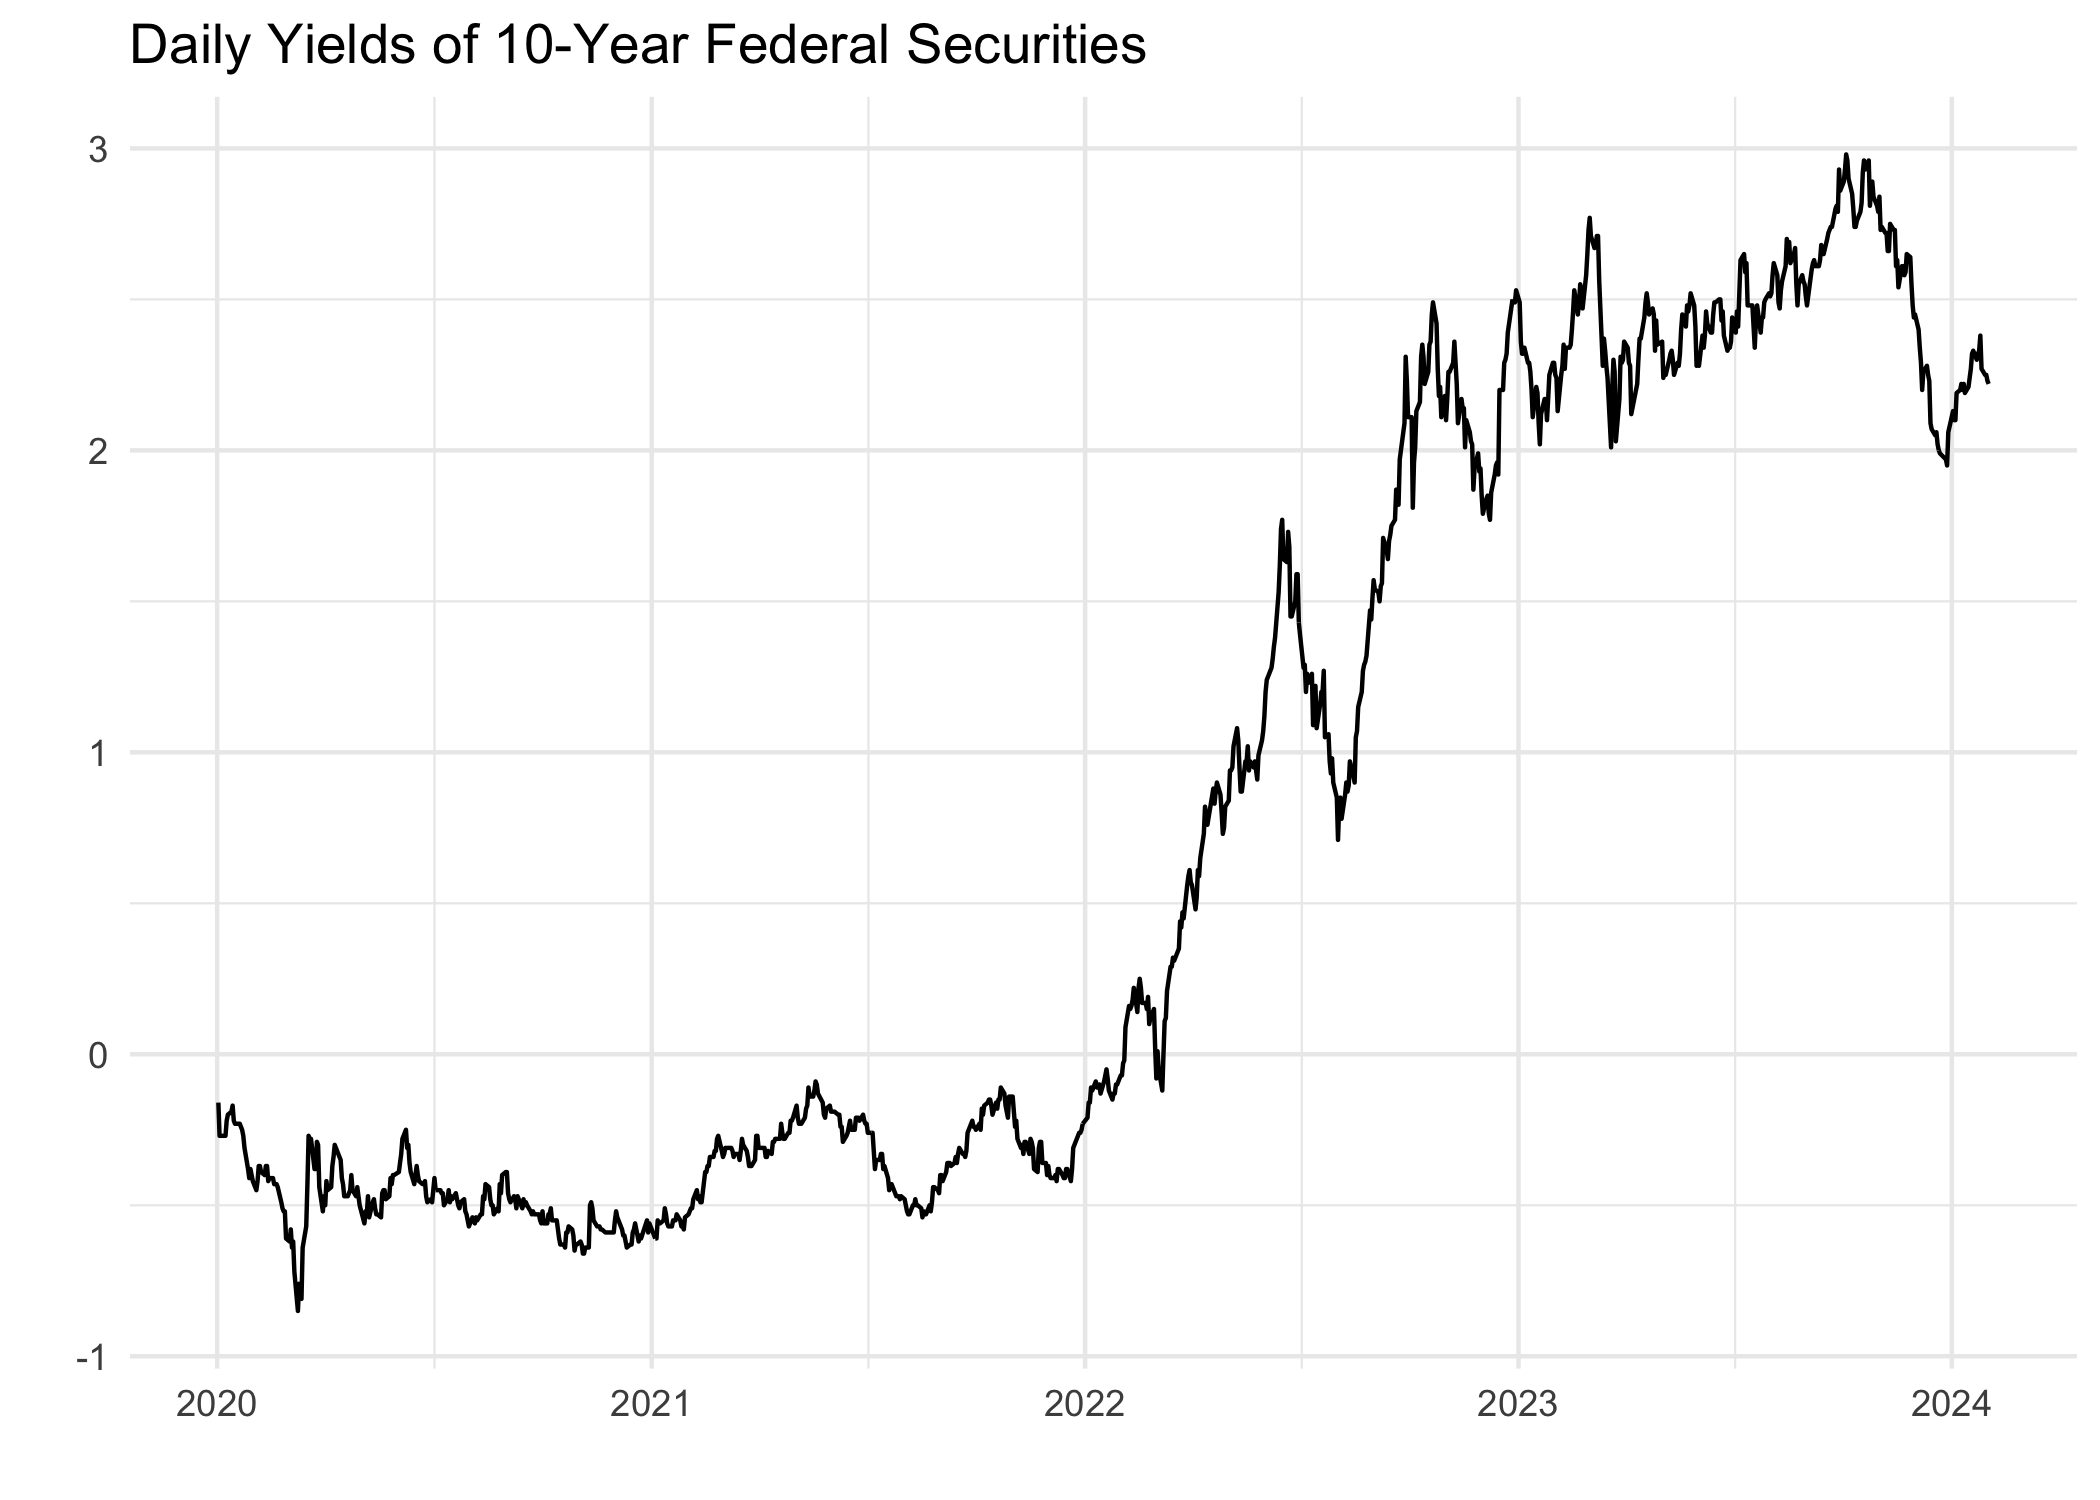
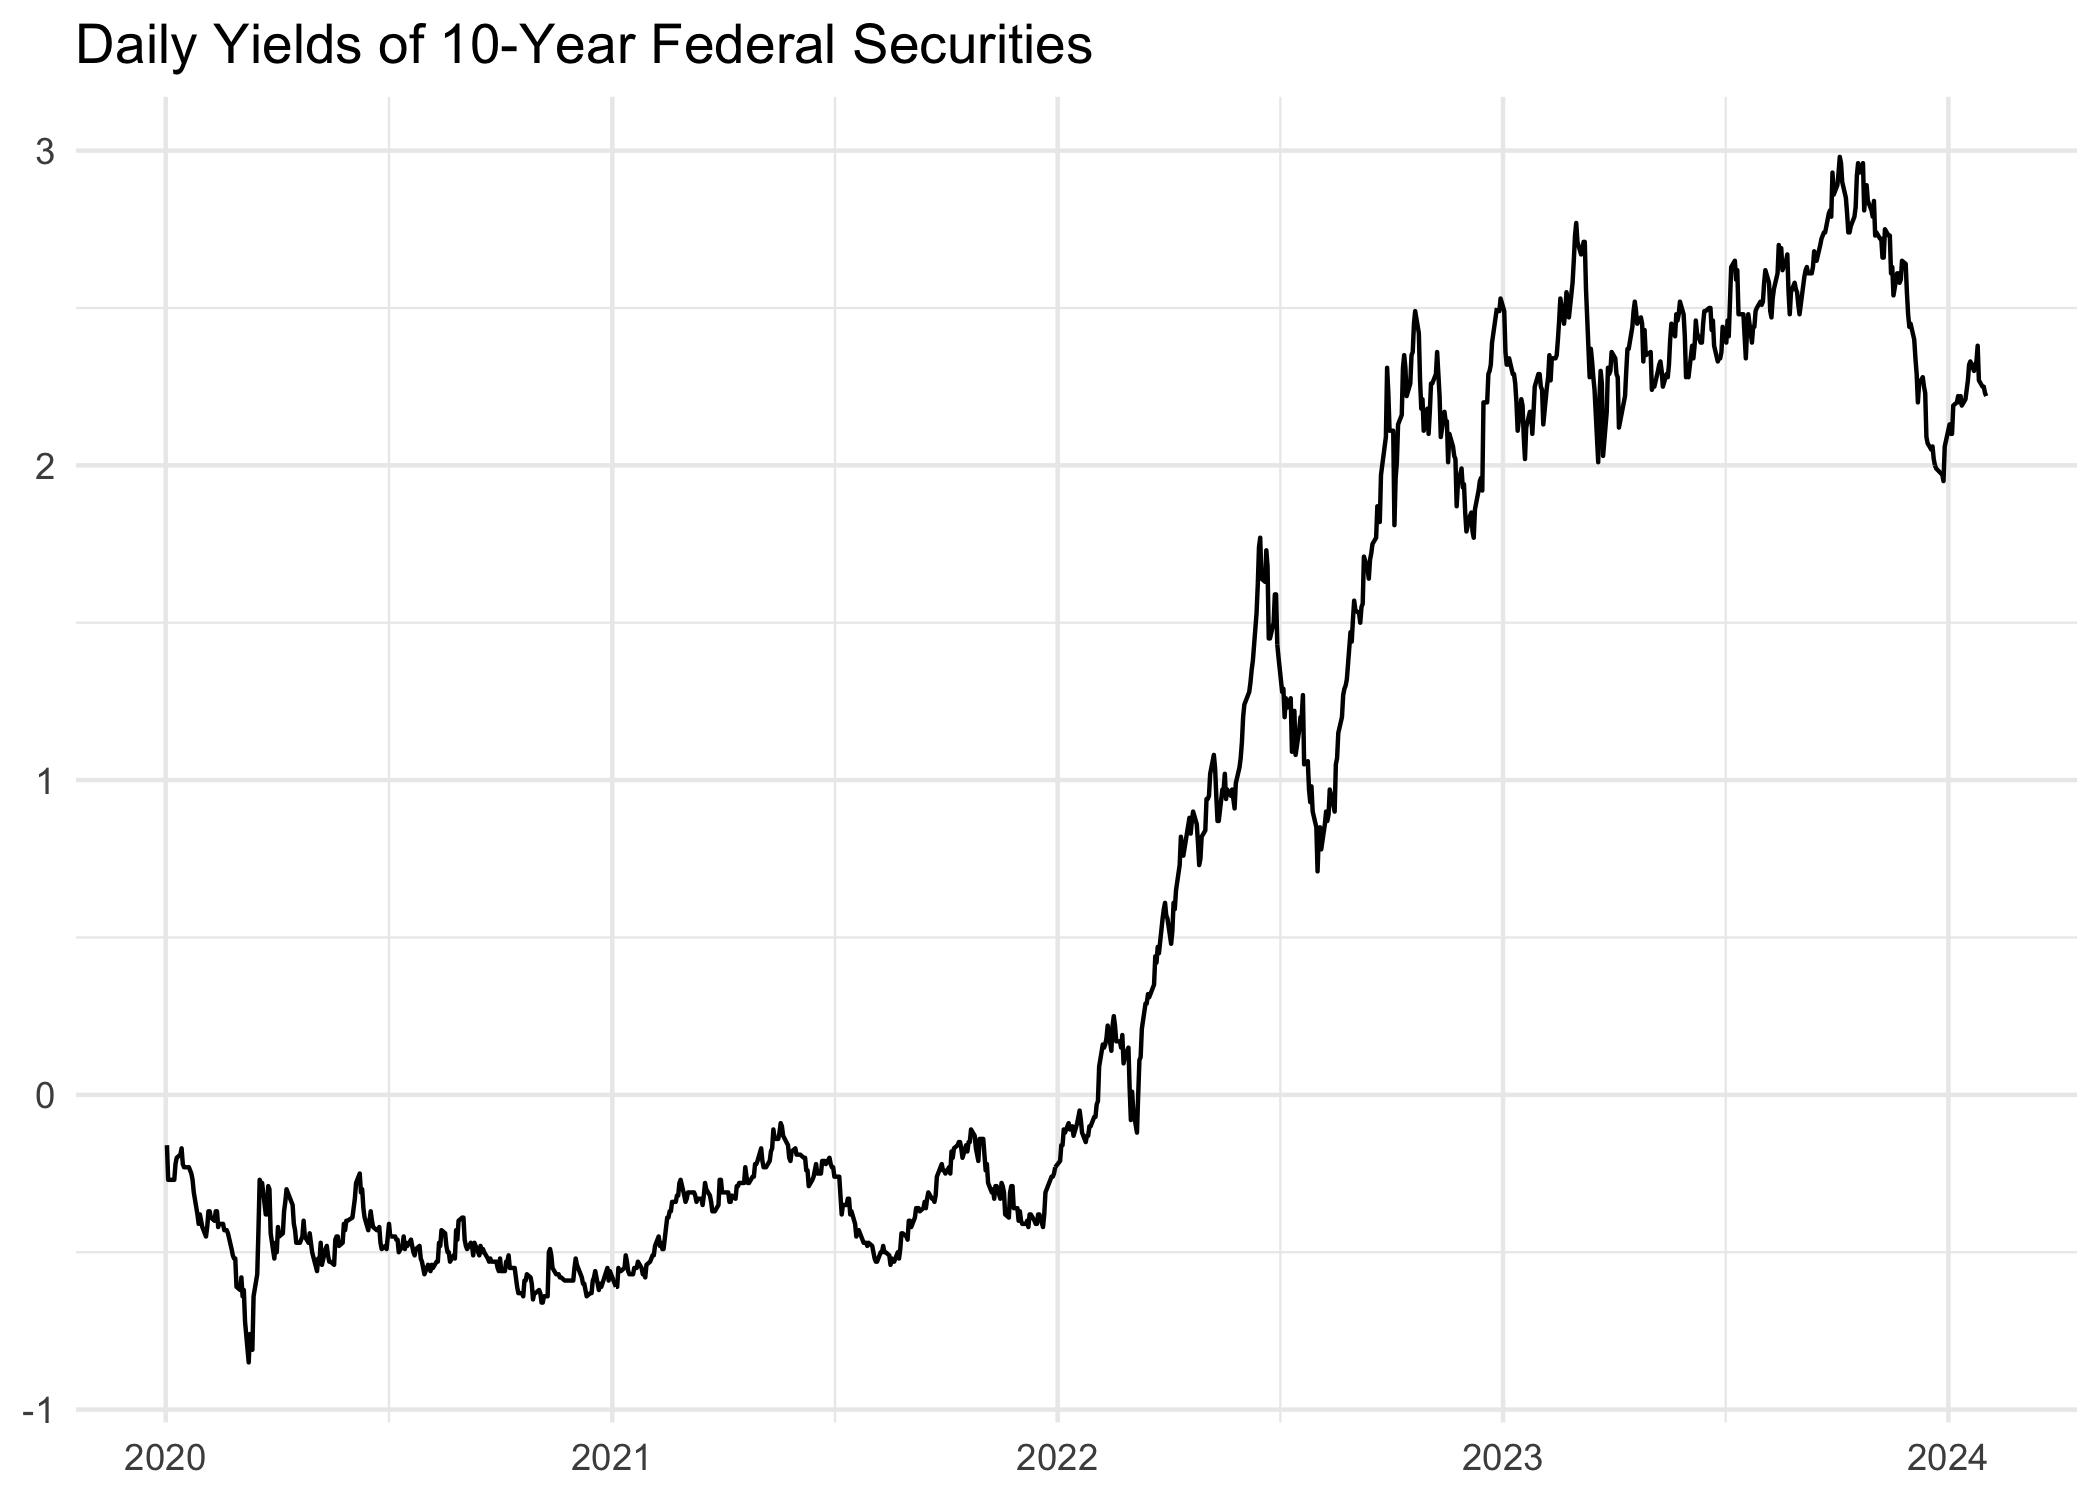
docs: set unused labs to NULL

diff --git a/README.md b/README.md
@@ -50,7 +50,9 @@ library(ggplot2)
 
 ggplot(yield_curve, aes(x = date, y = value)) +
   geom_line() +
-  labs(x = "", y = "", title = "Daily Yields of 10-Year Federal Securities") +
+  labs(
+    x = NULL, y = NULL, title = "Daily Yields of 10-Year Federal Securities"
+  ) +
   theme_minimal()
 ```
 
